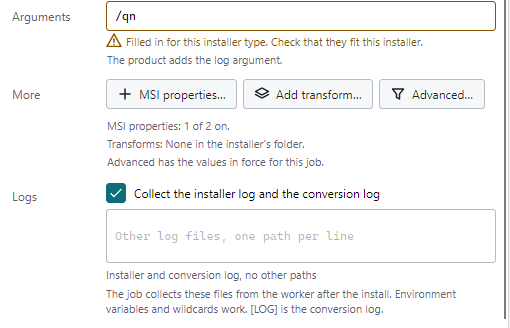
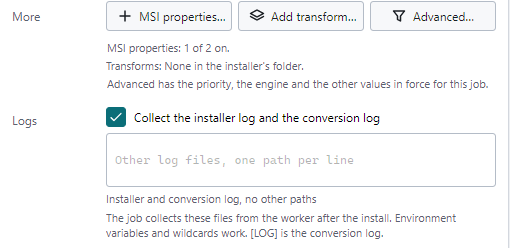
Automated Packaging: Build screen layout, Windows 11 only by default, wizard appearance (product BL-383, CH-1055 to CH-1057)
Arguments sits under Install mode; Priority and Engine are at the top of
Advanced, with a read-only engine line in column 2; the More buttons are one
row. Windows 11 only is the default target on the Build screen, the command
line and MCP, and a host with only a Windows 10 image needs
--target Windows10And11. Host preparation uses the Appearance choice of the
application. New screenshots: build-screen, build-priority (now Advanced),
build-parameters and wizard-hypervisor, cropped from the window.

diff --git a/docs/AutomatedPackaging/convert.md b/docs/AutomatedPackaging/convert.md
@@ -59,19 +59,20 @@ You can see what the product reads from an installer before you start a job.
     | Setting | What it does |
     |---|---|
     | **Install mode** | **Silent** runs the installer with its arguments. **Interactive** opens a window onto the worker, and you use the installer. See [Interactive installs](#interactive-installs) |
-    | **Must run on** | The target: "Windows 10 and 11", "Windows 11 only" or "Windows Server". "Captures on …" beside **Build** names the image that the target needs |
+    | **Arguments** | Under **Install mode**. See the install parameters below |
+    | **Must run on** | The target: "Windows 10 and 11", "Windows 11 only" or "Windows Server". "Windows 11 only" is the default. On a host with only a Windows 10 image, select "Windows 10 and 11". "Captures on …" beside **Build** names the image that the target needs |
     | **Machine** | **Automatic** lets the product select a free worker when the job starts. It looks at the images for the target in order: the healthiest first, then the most recently calibrated. It takes the first free worker of an image that can build the job. Or select one worker. **Recommended** marks the worker that Automatic would select for the selected **Engine** and **Install mode**. The mark moves when you change one of them. **busy** marks a worker that runs a job. A job for a busy worker waits in the queue for that worker. A worker that the job cannot use is in the list too, without the mark. For example, its agent is too old for the job |
     | **Signing** | The certificate or Azure profile. A self-signed certificate shows **SELF-SIGNED** |
-    | **Engine** | The conversion engine. **Packaging tool** is the default, from [Settings](settings.md#advanced). **Built-in (experimental)** is the product's own engine. It records what the installer changes, also across restarts of the worker, and writes the package on the host. It needs a worker whose image records the engine; other workers refuse the job (`AP-IM-026`). **Update** the worker to add it. A new version of an application uses the engine of the earlier job |
+    | **Engine** | A line shows the conversion engine of the job. Change it in **Advanced…**, under **Priority**. **Packaging tool** is the default, from [Settings](settings.md#advanced). **Built-in (experimental)** is the product's own engine. It records what the installer changes, also across restarts of the worker, and writes the package on the host. It needs a worker whose image records the engine; other workers refuse the job (`AP-IM-026`). **Update** the worker to add it. A new version of an application uses the engine of the earlier job |
     | **Recipe** | **None** by default, or a recipe of this host. The line under the list shows its SHA-256. A new version of an application shows the recipe of the earlier job; **None** removes it. See [Recipes](recipes.md) |
     | **Program to start** | In column 3. One of three. **Automatic**, the default: the job makes an application from each shortcut that the installer makes. **This program**: the job adds an application on the program that you select in the list or type, for example `Contoso\Tool\tool.exe`, and the start test starts it. **No application**: the package gets no application. See [The program to start](#the-program-to-start) |
     | **No application** | The package gets no application, so nothing in it can start. Only a service or a shell extension in it still works. The job installs the package on the worker and removes it again, instead of the start test, and warns |
     | **Prerequisites** | In column 3. Tick the prerequisites for this job only. They are in a drop-down; its face shows how many you selected. Open it with Enter, Space or Alt+Down, tick with Space, close it with Esc. **Library…** opens the **Prerequisites** tab |
     | **Internal** | In column 3, under **Prerequisites**. "Internal application: keep its name out of the improvement data". Off by default. Tick it for your own application. The improvement data then has no name and no version for its jobs, and records that the application is internal. Nothing else changes. The blue question mark after the choice gives the same help: point to it, or press Tab to it. See [Settings](settings.md#improvement-data) |
 
-    The install parameters are in column 2, under the settings: **Arguments**, then **More**, then **Logs**. **More** has **MSI properties…**, **Add transform…** and **Advanced…**, and each opens a window. Lines under them show what the job has, for example "MSI properties: 1 of 2 on."
+    **Arguments** is under **Install mode**. **More** and **Logs** are at the bottom of column 2. **More** has **MSI properties…**, **Add transform…** and **Advanced…** in one row, and each opens a window. Lines under them show what the job has, for example "MSI properties: 1 of 2 on."
 
-    ![The install parameters in column 2: Arguments, More with MSI properties…, Add transform… and Advanced…, and Logs](images/build-parameters.png)
+    ![Column 2: More with MSI properties…, Add transform… and Advanced… in one row, and Logs](images/build-parameters.png)
 
     | Parameter | What it does |
     |---|---|
@@ -88,7 +89,7 @@ You can see what the product reads from an installer before you start a job.
 
     | Option | Build screen | What it does |
     |---|---|---|
-    | `--target <target>` | **Must run on** | `Windows10And11` (default), `Windows11Only` or `WindowsServer` |
+    | `--target <target>` | **Must run on** | `Windows11Only` (default), `Windows10And11` or `WindowsServer`. On a host with only a Windows 10 image, a job without `--target` is refused: "No image can build for Windows 11 only". Give `--target Windows10And11` |
     | `--machine <name>` | **Machine** | The worker to use, by name. See `machines`. A job for a busy worker waits for it |
     | `--certificate-thumbprint <thumbprint>` | **Signing** | Necessary when the host has more than one certificate |
     | `--signing-profile <id>` | **Signing** | An Azure profile that passed **Test**, instead of a certificate |
@@ -146,7 +147,7 @@ These settings apply to one job.
 
 === "GUI"
 
-    Click **Advanced…**, under **More** in column 2. Each value shows where it comes from: "product default", or "overridden for this job". **OK** keeps the changes. **Cancel** keeps none. **Reset to defaults** clears them.
+    Click **Advanced…**, under **More** in column 2. **Priority** and **Engine** are at the top: see [Start the job](#start-the-job) and **Engine** above. Each other value shows where it comes from: "product default", or "overridden for this job". **OK** keeps the changes. **Cancel** keeps none. **Reset to defaults** clears them, and sets **Normal** and the default engine.
 
 === "CLI"
 
@@ -174,9 +175,9 @@ On the command line, a `--package-name` that is different from the last Name of 
 
 === "GUI"
 
-    In column 2, under **Machine**, select **Priority**: **Low**, **Normal** (the default) or **High**. Then click **Build** at the bottom of column 3.
+    To change the priority, click **Advanced…** in column 2. Select **Priority** at the top: **Low**, **Normal** (the default) or **High**, and click **OK**. Then click **Build** at the bottom of column 3.
 
-    ![Column 2: Machine Automatic, and Priority with Low, Normal and High](images/build-priority.png)
+    ![Advanced: Priority with Low, Normal and High, and Engine under it](images/build-priority.png)
 
     - If **Build** is not available, the bar at the bottom of column 3 shows each reason on its own line. Each has a red warning mark. Under the reasons, at the left of **Build**, "Captures on …" names the image that the target needs.
     - If the **Build** tab is grey, the host needs preparation first.
@@ -278,7 +279,7 @@ With the built-in engine, the capture continues after a restart of the worker.
 
 === "GUI"
 
-    In column 2, select **Interactive** for **Install mode**, and **Built-in (experimental)** for **Engine**. Then click **Build**.
+    In column 2, select **Interactive** for **Install mode**. In **Advanced…**, select **Built-in (experimental)** for **Engine**, and click **OK**. Then click **Build**.
 
 === "CLI"
 

diff --git a/docs/AutomatedPackaging/troubleshooting.md b/docs/AutomatedPackaging/troubleshooting.md
@@ -102,7 +102,7 @@ A build that fails or stops keeps its machine. Click **Incomplete machines…** 
 | "Automated Packaging cannot build workers or start jobs: the working directory … is not safe to use." | The window shows this message when it starts. It examines the same folders as the service, and the message names each problem. The window wrote nothing in the working directory. Its log is in `%ProgramData%\AppVentiX\Automated Packaging\logs`. **Settings > This host** names the problem under **Working directory access**, and **Build**, **Workers**, **OS media** and **Prerequisites** are locked. The window does not remove old job folders. Some actions write in the working directory. They show this message and do nothing. On **Settings**, these are getting the packaging tools, PSF and the client tools. On **Jobs**, they are **Export again**, re-sign, **Sign for release…**, **Re-sign a package…** and **Free up space…** | On **Settings > This host**, click **Prepare this host…** and apply **Working directory access**. Delete each item that it names. Restart the service. Then close the window and start it again |
 | "This command uses the working directory, so it did not start." | The command line examines the same folders as the service when it starts. The message names each problem. The command line wrote nothing in the working directory. Its log is in `%ProgramData%\AppVentiX\Automated Packaging\logs`. The exit code is 3. `certificates`, `machines`, `exclusions`, `recipe` and `improvement` use only the data folder, and they still run | Run host preparation and apply **Working directory access**. Delete each item that it names. Then restart the service |
 | A certificate is not in the list of the Build screen | It is in your own store, not in the computer store | **Move to this computer** on **Settings > Signing** |
-| "No image can build for …" | No image serves the target | Build an image for the target, or select a different target |
+| "No image can build for …" | No image serves the target. "Windows 11 only" is the default target, also on the command line and in MCP | Build an image for the target, or select a different target. On a host with only a Windows 10 image, select "Windows 10 and 11" (`--target Windows10And11`) |
 | "AP-IM-024: the job was not started. … has no Finish packaging shortcut." | The job is interactive, and the image was built or updated before it got the shortcut | Click **Update** for the worker on the **Workers** screen, or select **Silent** |
 | "AP-IM-030: the job was not started. The agent of … is version …" and "Update this worker to use: …" | The job uses a feature that needs a newer agent, for example the built-in engine. The agent in the image of each worker for the target is older | Click **Update** for the worker on the **Workers** screen, or change the job so that it does not use the feature. See [When an image is behind](maintain-images.md#when-an-image-is-behind) |
 | "AP-IM-023: the job was not started. … must be updated." | Each image for the target reads **Update required** | Do what each reason says on the **Workers** screen. See [When an image is behind](maintain-images.md#when-an-image-is-behind) |

diff --git a/docs/AutomatedPackaging/command-line.md b/docs/AutomatedPackaging/command-line.md
@@ -71,7 +71,7 @@ First, the program fills in what the installer tells, as the Build screen does. 
 | `--name <text>` | The name of the application. Default: the ProductName of the MSI or of the version resource of the EXE |
 | `--publisher <text>` | The publisher, as people know it. Default: the Manufacturer of the MSI, or the CompanyName of the EXE. The publisher of the package is always the subject of the signing certificate |
 | `--package-version <version>` | The package version, up to four numbers. The program fills missing parts with zeros. Default: the ProductVersion of the MSI or of the EXE |
-| `--target <target>` | `Windows10And11` (default), `Windows11Only` or `WindowsServer` |
+| `--target <target>` | `Windows11Only` (default), `Windows10And11` or `WindowsServer`. On a host with only a Windows 10 image, a job without `--target` is refused: give `--target Windows10And11` |
 | `--machine <name>` | The worker to use. A busy worker refuses the job. Without it, a free worker is selected |
 | `--engine <engine>` | The conversion engine: `mpt` for Microsoft's MSIX Packaging Tool, or `builtin` for the built-in engine (experimental). Without it, the job uses the default engine of **Settings > Advanced**. A `builtin` job needs a worker whose image records the built-in engine (`AP-IM-026`). A name that the product does not know is refused before a worker is touched (`AP-IM-025`) |
 | `--recipe <name[@version]>` | A recipe of this host for the job (see `recipe list`). Without `@version`, the highest version. Microsoft's MSIX Packaging Tool takes only its exclusions. The built-in engine applies all of it. A recipe that is not on this host is refused before a worker is touched (`AP-IM-029`). See [Recipes](recipes.md) |

diff --git a/docs/AutomatedPackaging/settings.md b/docs/AutomatedPackaging/settings.md
@@ -63,7 +63,7 @@ The check is off, and the application sends no request, when you untick **Check 
 
 ## Appearance
 
-The application follows the app mode of Windows by default. **Light** or **Dark** overrides it. The choice applies at once, and only for your account.
+The application follows the app mode of Windows by default. **Light** or **Dark** overrides it. The choice applies at once, and only for your account. Host preparation uses the same choice when it starts.
 
 The card **Keyboard shortcuts** lists the shortcuts of the window. Ctrl+1 to Ctrl+6 open the tabs, from **Build** to **Settings**.
 
